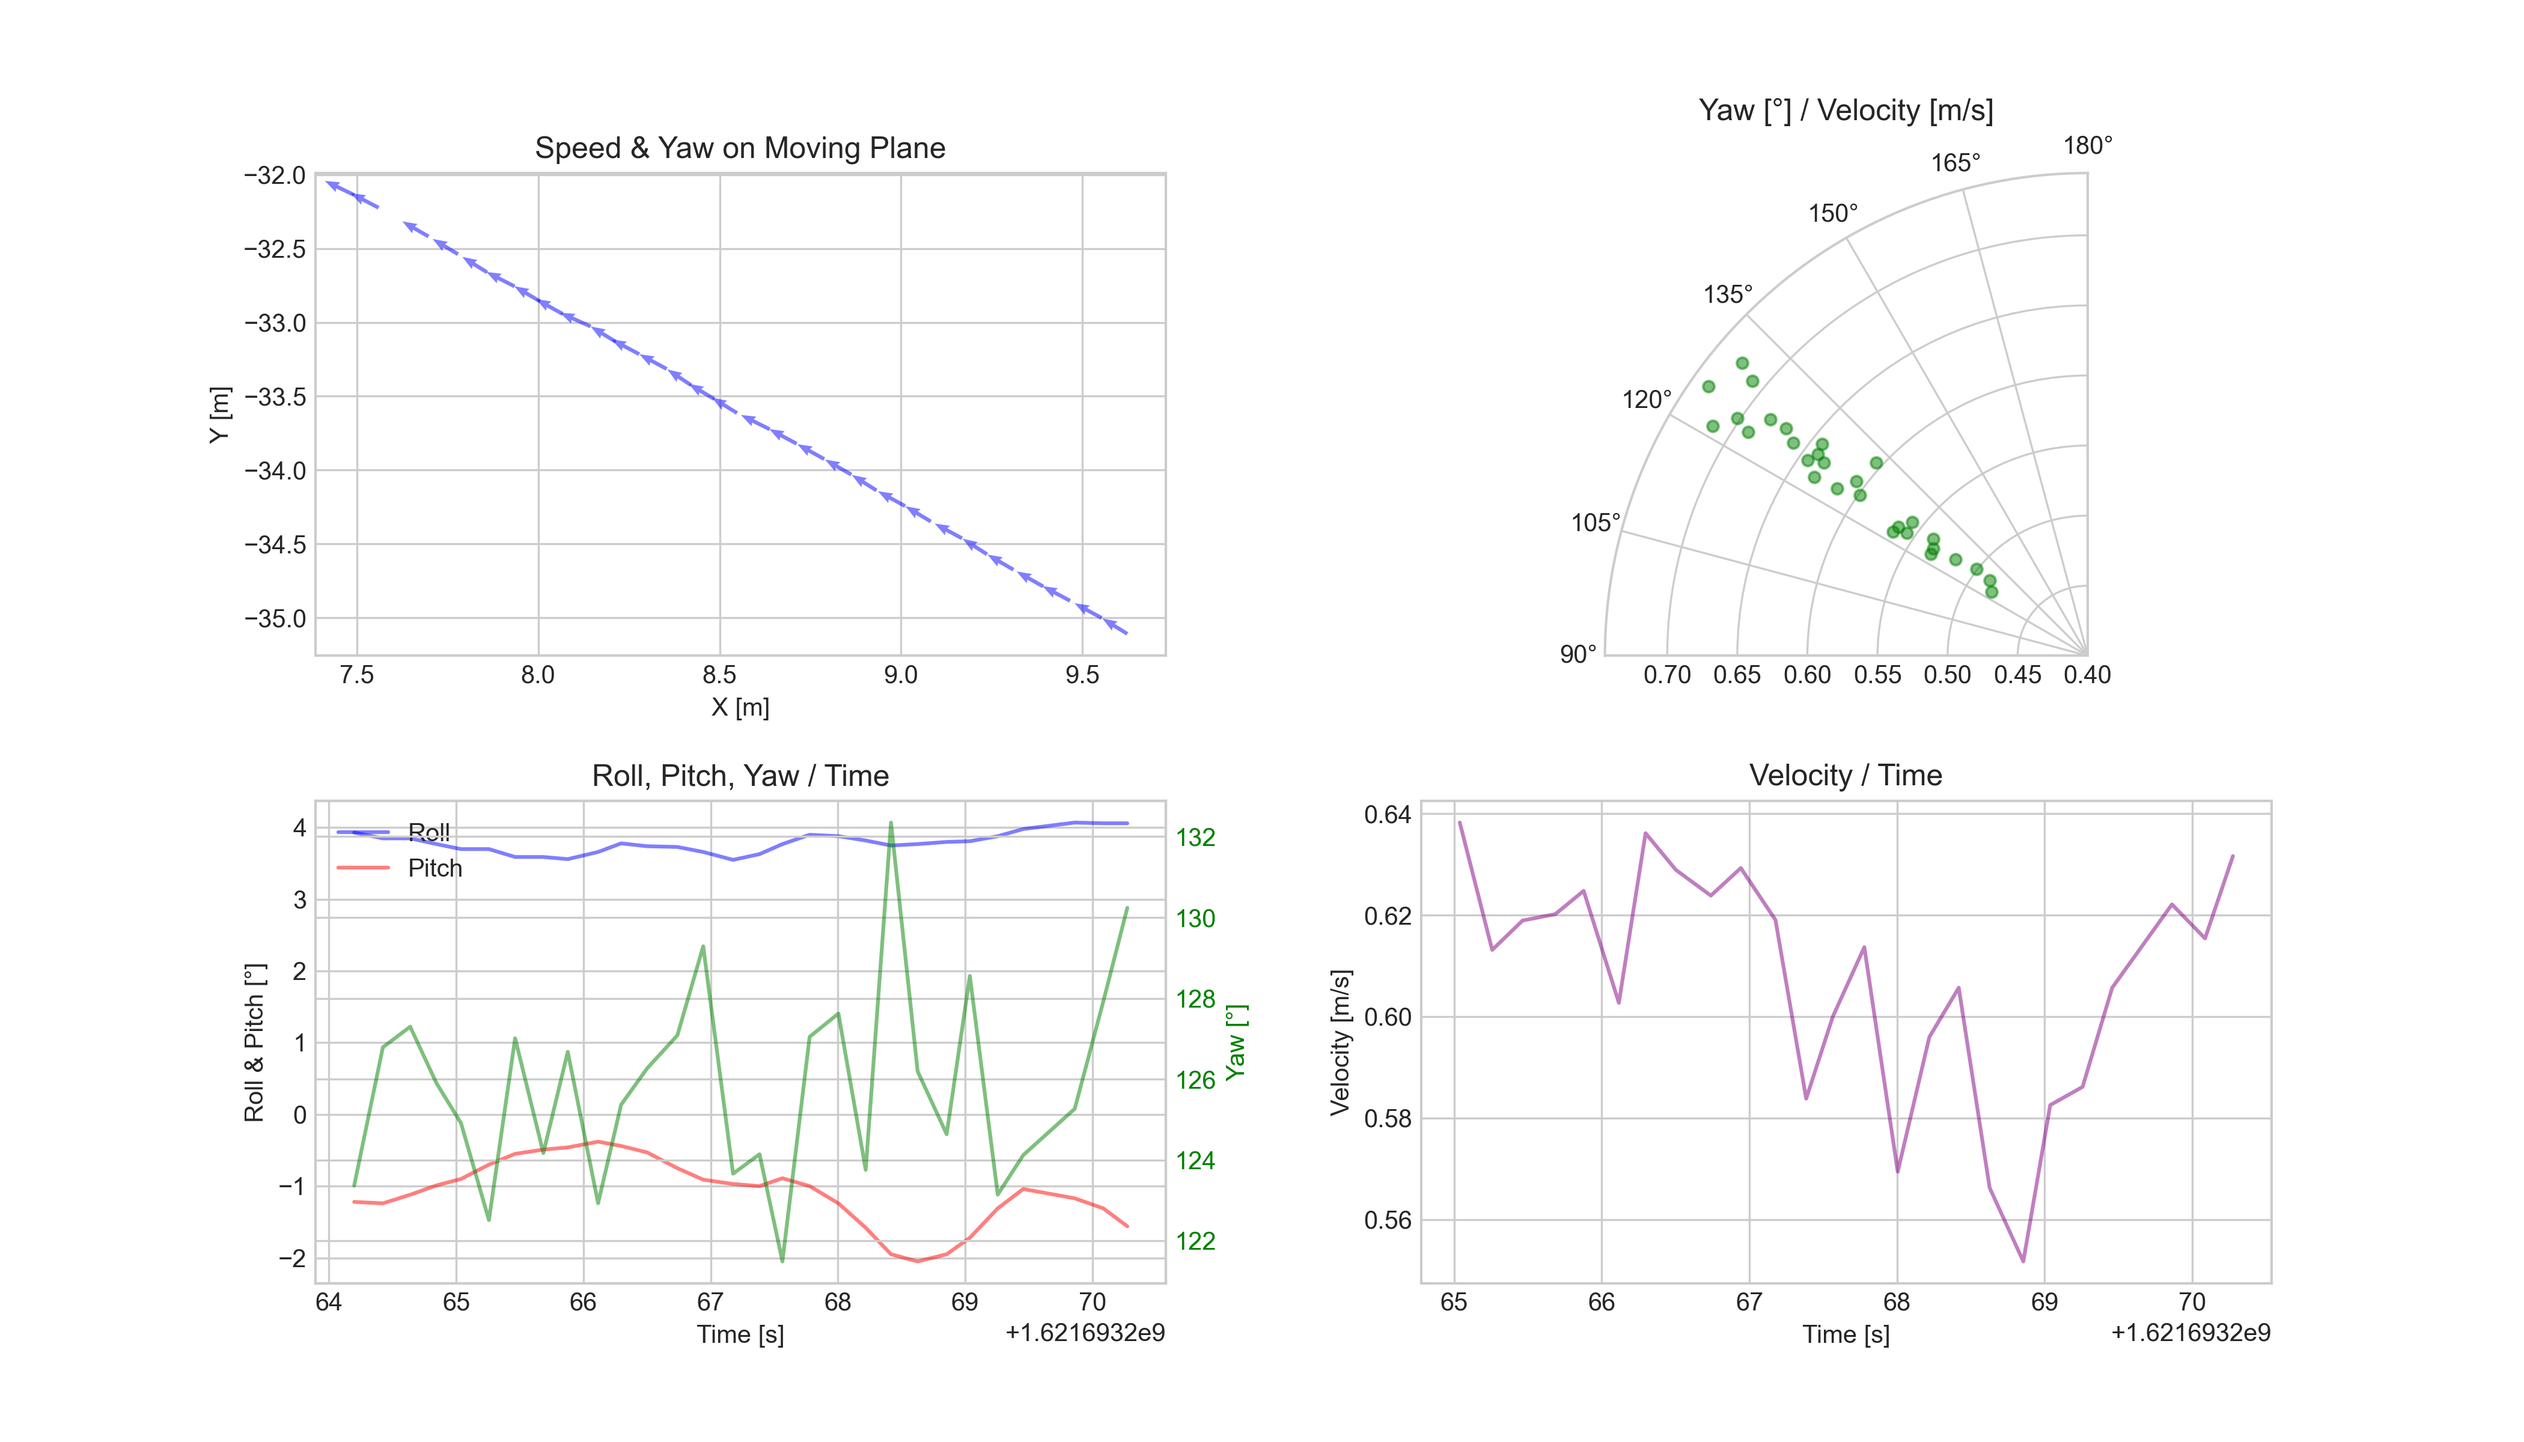
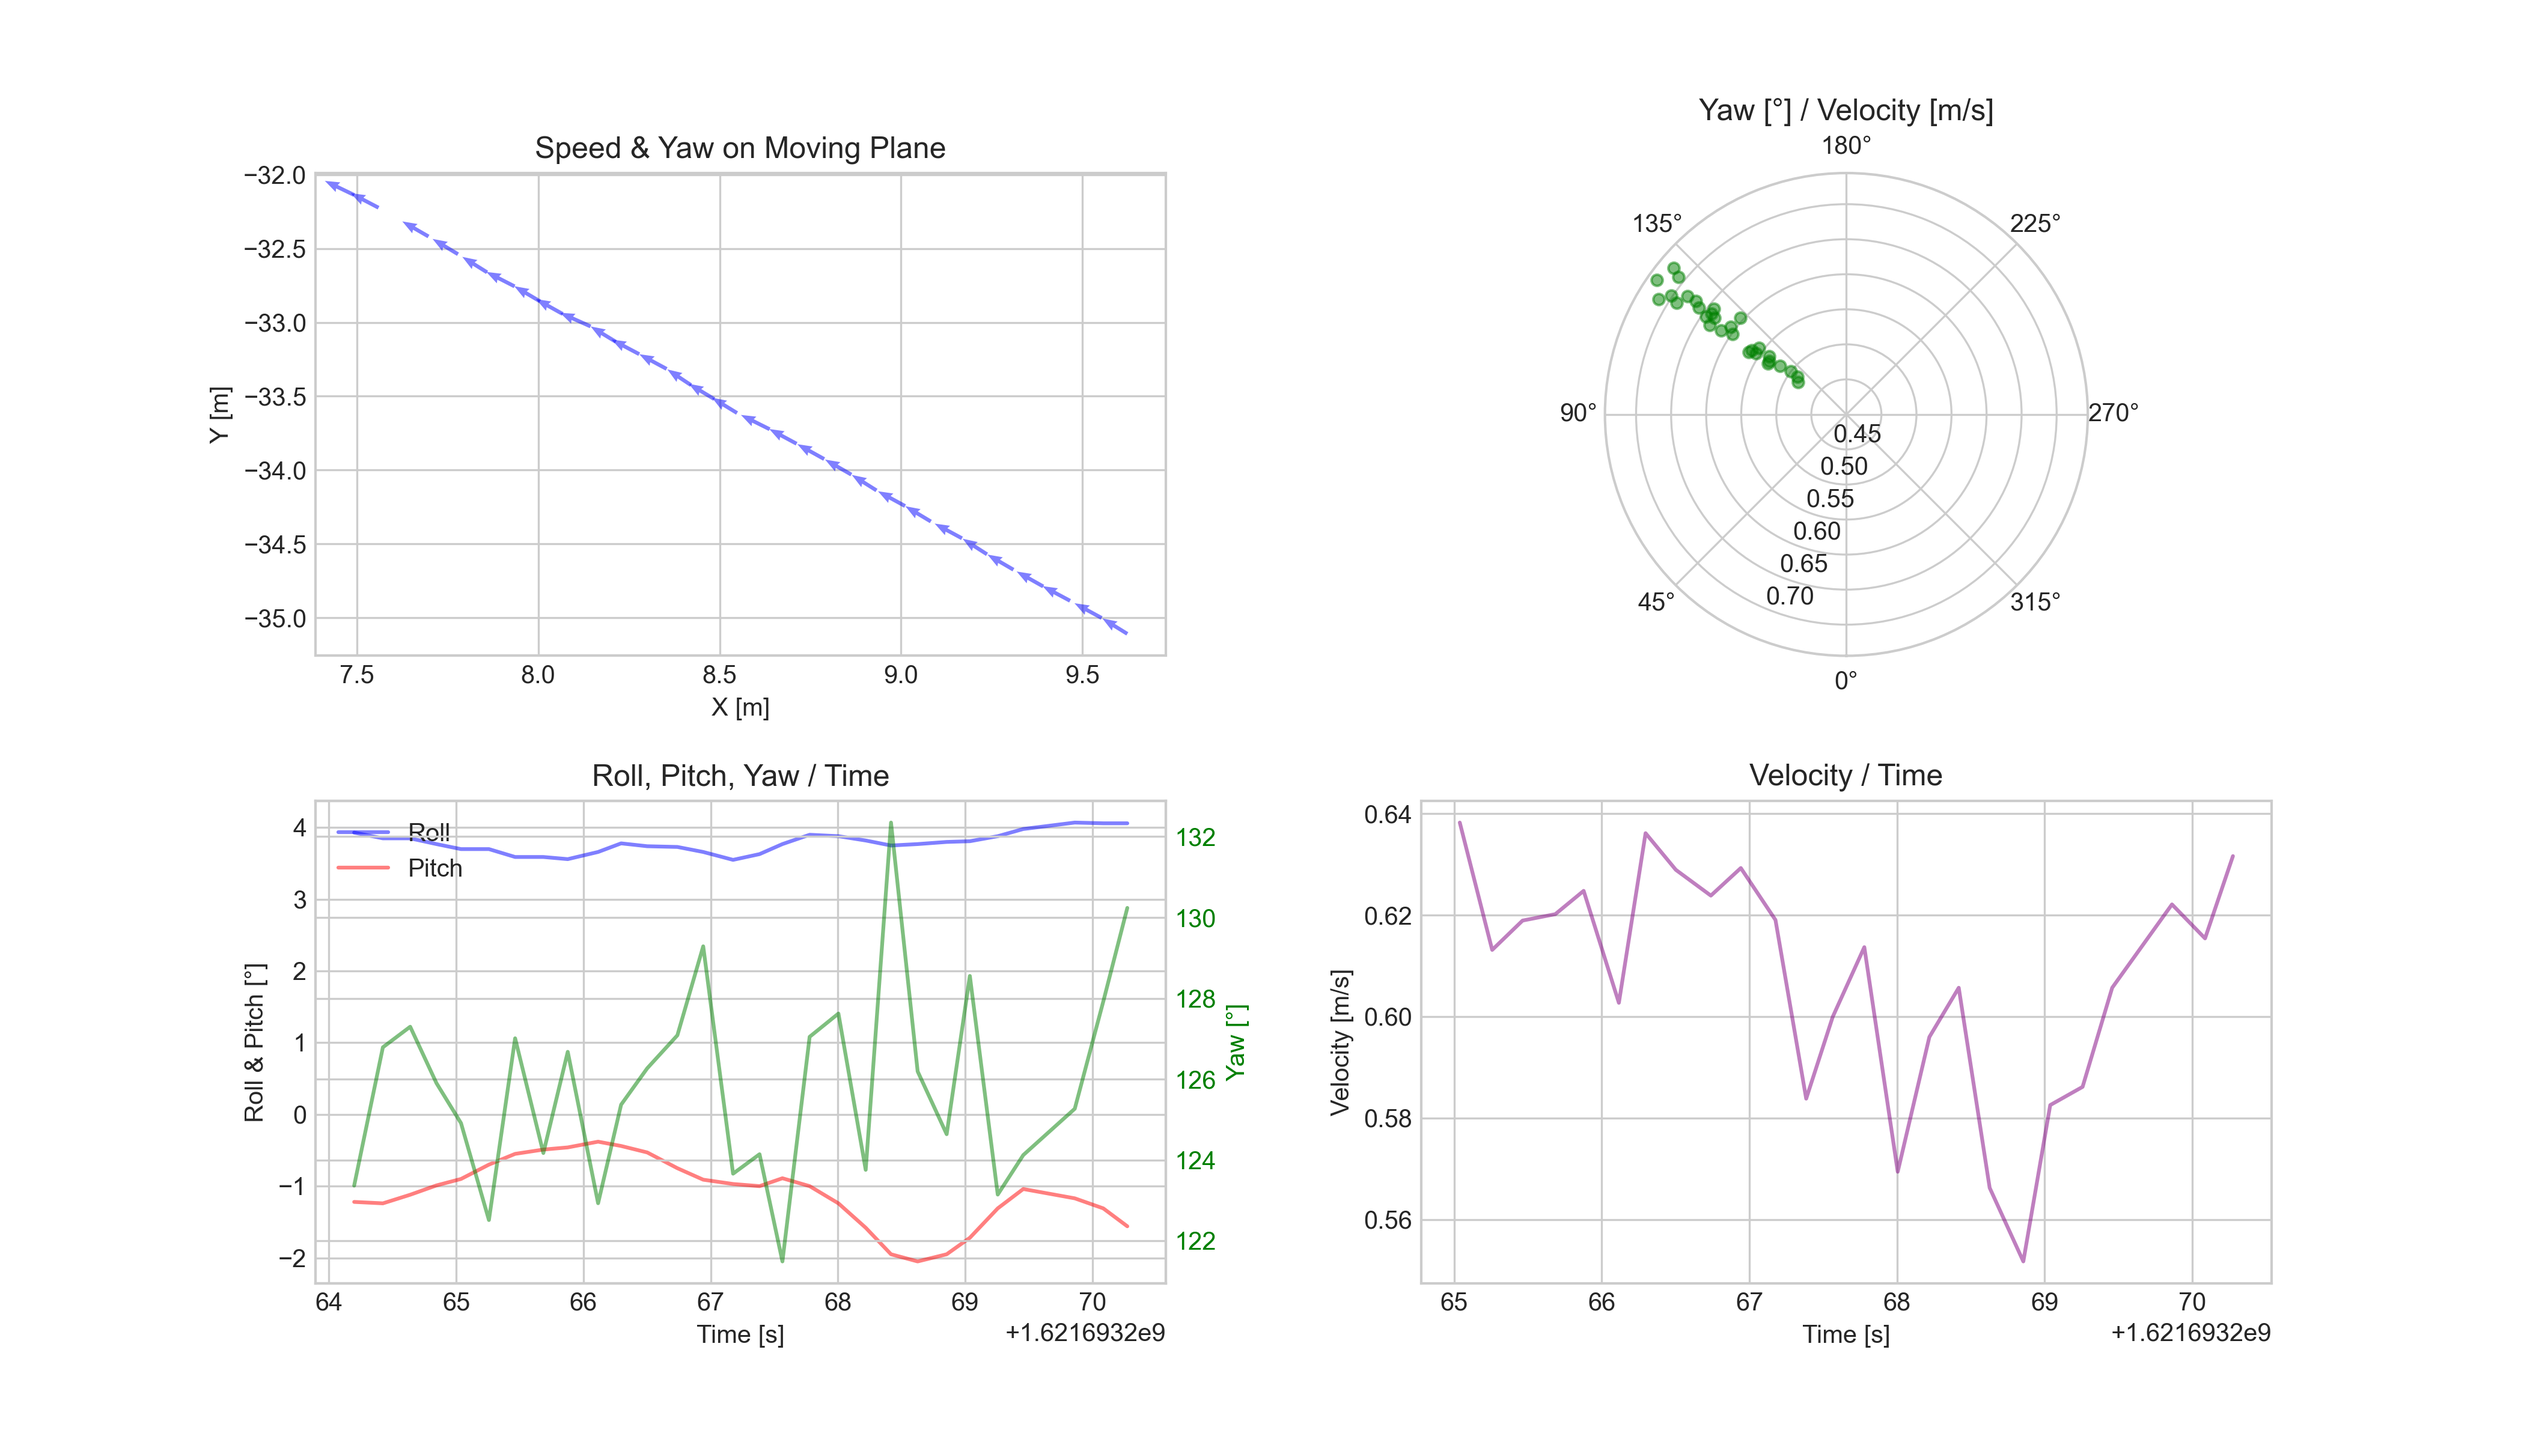
test latex

Changed region(s): [[0.6238, 0.0938, 0.8421, 0.4688], [0.811, 0.0938, 0.8421, 0.125], [0.6238, 0.3438, 0.655, 0.375]]

diff --git a/Python_test/DiffGNSSProcessor.py b/Python_test/DiffGNSSProcessor.py
@@ -70,9 +70,10 @@ class DiffGNSSProcessor:
     def apply_kalman_filter(self):
         initial_state = np.array([self.data[0][1], 0])
         initial_covariance = np.array([[1000, 0], [0, 1000]])
-        # the noise parameters (process_variance, measurement_variance) were chosen arbitrarily 
-        process_variance = np.array([[1, 0], [0, 1]]) * 0.01
-        measurement_variance = 2
+
+        # process_variance, measurement_variance, tune these values to get better results 
+        process_variance = np.array([[1, 0], [0, 1]]) * 0.01 # 0.01
+        measurement_variance = 1 # 10
 
         kf_x = SimpleKalmanFilter(initial_state, initial_covariance, process_variance, measurement_variance)
         kf_y = SimpleKalmanFilter(initial_state, initial_covariance, process_variance, measurement_variance)
@@ -180,7 +181,7 @@ class DiffGNSSProcessor:
         ax.set_title("Roll, Pitch, Yaw / Time")
 
     def plot_velocity_vs_time(self, ax):
-        times = [point[0] for point in self.data] # get times
+        times = [point[0] for point in self.data] # time axis
         smoothed_velocities = np.convolve(self.velocities, np.ones(5)/5, mode='valid') # simple moving average to smoothen the velocities
         truncated_times = times[len(times) - len(smoothed_velocities):] # truncate times to match the length of the smoothed velocities
         ax.plot(truncated_times, smoothed_velocities, label="Velocity", color="purple", alpha=0.5)
@@ -200,8 +201,8 @@ class DiffGNSSProcessor:
         ax.set_theta_zero_location("S")
         ax.set_theta_direction(-1)
         ax.set_rlim(0.4, None)
-        ax.set_thetamin(90)
-        ax.set_thetamax(180)
+        # ax.set_thetamin(90)
+        # ax.set_thetamax(180)
     
     def visualize_data(self, showfig, savefig):
 
@@ -218,11 +219,11 @@ class DiffGNSSProcessor:
         
         plt.subplots_adjust(hspace=0.3, wspace=0.3)
         plt.draw() # predraw the plot
-        manager = plt.get_current_fig_manager() # get the current figure manager
-        manager.window.showMaximized() # maximize the window
         if savefig:
             fig.savefig('analysis.png', dpi=300)
         if showfig:
+            manager = plt.get_current_fig_manager() # get the current figure manager
+            manager.window.showMaximized() # maximize the window
             plt.show() 
     
     def run(self, filterKalman, showfig, savefig):

diff --git a/Python_test/README.md b/Python_test/README.md
@@ -63,7 +63,7 @@ time_s, x_mm, y_mm, roll_deg, pitch_deg
 
 - inputs: file path (data), preference to show and/or save resulting figure (arguments)
 - outputs: data as csv (adds velocity & yaw columns), combined fullscreen windows w/ relevant figures
-- basic Kalman filter included
+- ships w/ Adaptive Kalman filter (use flag ```--filter```)
 - processing: ~0.3ms (w/o filter) ~4ms (w/ filter)
 - time complexity w/o filter: O(n) up to O(3n)
 - can save data, plots
@@ -71,7 +71,7 @@ time_s, x_mm, y_mm, roll_deg, pitch_deg
     - yaw (heading) vector w/ projection to moving plane
     - yaw polar plot (radius: normalized velocity)
     - RPY / time line plot
-    - velocity / time line plot
+    - velocity / time line plot (velocity smoothed)
 - abstracted, extendable class structure
     - portable for real time applications (ROS node)
 
@@ -109,10 +109,42 @@ options:
   --save                Save plots ('analysis.png') & data ('output_data.csv').
 ```
 
-Resulting plot w/ given task data:
+Resulting plot w/ given task data (no filtering):
 
 ![alt text](https://github.com/mbz4/Technical_Interview/blob/main/Python_test/analysis.png)
 
+
+### Refresh on basic Kalman filters
+
+```latex
+\textbf{Prediction:}
+
+1. \textbf{State Prediction:}
+\[ \hat{x}_{k|k-1} = F_k \hat{x}_{k-1|k-1} + B_k u_k \]
+
+2. \textbf{Error Covariance Prediction:}
+\[ P_{k|k-1} = F_k P_{k-1|k-1} F_k^T + Q_k \]
+
+\textbf{Update (or Correction):}
+
+1. \textbf{Kalman Gain:}
+\[ K_k = P_{k|k-1} H_k^T (H_k P_{k|k-1} H_k^T + R_k)^{-1} \]
+
+2. \textbf{State Update:}
+\[ \hat{x}_{k|k} = \hat{x}_{k|k-1} + K_k (z_k - H_k \hat{x}_{k|k-1}) \]
+
+3. \textbf{Error Covariance Update:}
+\[ P_{k|k} = (I - K_k H_k) P_{k|k-1} \]
+```
+1. Guess of system state
+It starts with an initial guess of the state of a system and its believed uncertainty.
+
+2. Prediction step
+For each timestep, it makes a prediction about the new/next state based on an internal model. 
+
+3. Update step
+When a new measurement is available, it updates its prediction based on this measurement.
+More weight is given to the prediction/measurement depending on specified uncertainties.
 
 ## Nice to have / Future
 
